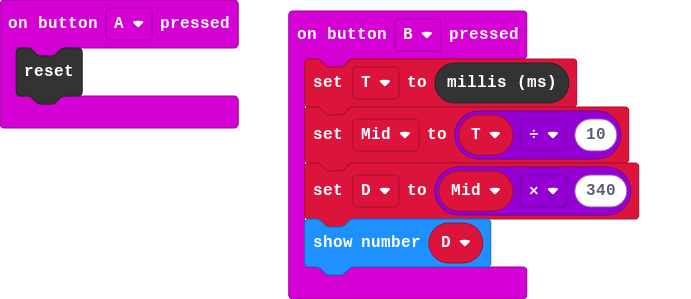
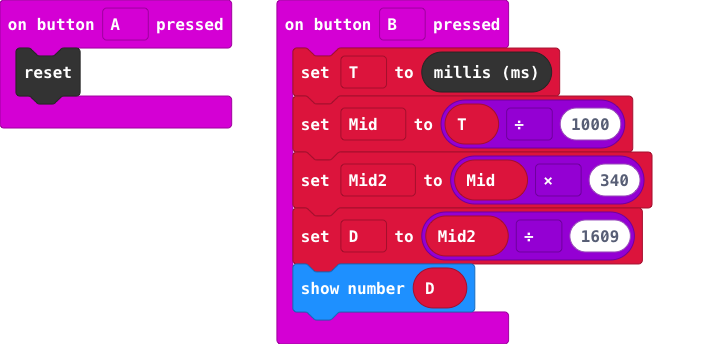
Update main.blocks, main.ts

diff --git a/main.ts b/main.ts
@@ -1,12 +1,14 @@
 let T = 0
 let Mid = 0
+let Mid2 = 0
 let D = 0
 input.onButtonPressed(Button.A, function () {
     control.reset()
 })
 input.onButtonPressed(Button.B, function () {
     T = control.millis()
-    Mid = T / 10
-    D = Mid * 340
+    Mid = T / 1000
+    Mid2 = Mid * 340
+    D = Mid2 / 1609
     basic.showNumber(D)
 })
